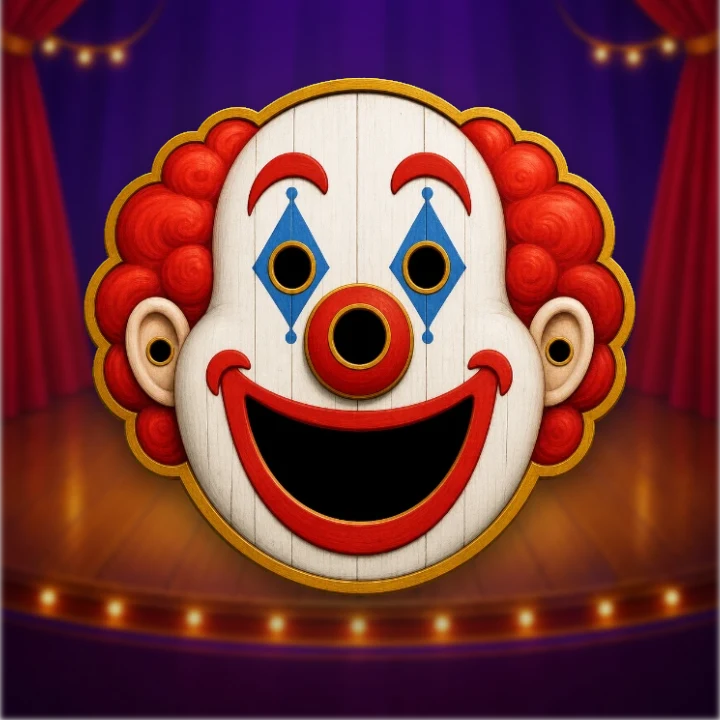
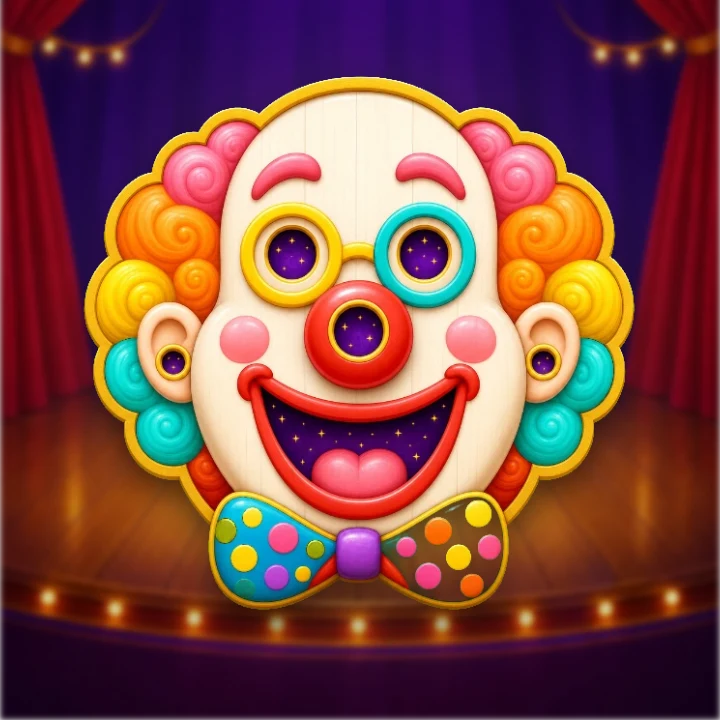
Fortune Clown: palhaço alegre e colorido

diff --git a/Fortune Clown.dc.html b/Fortune Clown.dc.html
@@ -41,8 +41,8 @@ a { color: #ffd257; text-decoration: none; } a:hover { color: #fff1b8; }
     <sc-for list="{{ tags }}" as="t" hint-placeholder-count="6">
       <div style="position: absolute; left: {{ t.x }}; top: {{ t.y }}; transform: translateX(-50%); padding: 1px 7px; border-radius: 10px; background: rgba(28,6,48,.85); font-size: 14px; font-weight: 800; color: #ffd257; pointer-events: none;">{{ t.m }}</div>
     </sc-for>
-    <div data-lid="0" style="position: absolute; left: 164px; top: 294px; width: 31px; height: 31px; border-radius: 50%; background: linear-gradient(180deg, #f6efe2, #d9cdb6); box-shadow: 0 0 0 2px #c8871a; transform: scaleY(0); transform-origin: 50% 0;"></div>
-    <div data-lid="1" style="position: absolute; left: 256px; top: 294px; width: 31px; height: 31px; border-radius: 50%; background: linear-gradient(180deg, #f6efe2, #d9cdb6); box-shadow: 0 0 0 2px #c8871a; transform: scaleY(0); transform-origin: 50% 0;"></div>
+    <div data-lid="0" style="position: absolute; left: 161px; top: 281px; width: 37px; height: 37px; border-radius: 50%; background: linear-gradient(180deg, #fbe8d2, #f0cfae); box-shadow: inset 0 -3px 0 #e8a0a0; transform: scaleY(0); transform-origin: 50% 0;"></div>
+    <div data-lid="1" style="position: absolute; left: 253px; top: 281px; width: 37px; height: 37px; border-radius: 50%; background: linear-gradient(180deg, #fbe8d2, #f0cfae); box-shadow: inset 0 -3px 0 #e8a0a0; transform: scaleY(0); transform-origin: 50% 0;"></div>
     </div>
     <sc-if value="{{ floatOn }}" hint-placeholder-val="{{ false }}">
       <div style="position: absolute; z-index: 9; left: {{ floatX }}; top: {{ floatY }}; transform: translateX(-50%); font-size: 30px; font-weight: 800; color: #fff3c4; text-shadow: 0 2px 0 #6b2e05; animation: ckFloat .9s ease-out forwards; pointer-events: none;">{{ floatText }}</div>
@@ -99,10 +99,10 @@ a { color: #ffd257; text-decoration: none; } a:hover { color: #fff1b8; }
 // Fortune Clown — a "boca do palhaço" com swipe. 5 bolas por aposta; cada bola vale aposta/5 × buraco.
 // Habilidade: a bola vai exatamente onde o dedo parou (e faz o arco do dedo). Errou o buraco = não pontua.
 // Sorte: bola dentro do buraco entra com chance 0,95/x (senão bate na borda e sai) → retorno ≤ 95% mesmo para quem acerta sempre.
-const HOLES = [ // centro e raio (px da tela)
-  { n: 'boca', x: 226.5, y: 443, rx: 70, ry: 30, m: 1.5 }, { n: 'nariz', x: 226.5, y: 357, rx: 17, ry: 17, m: 3 },
-  { n: 'olho', x: 179.6, y: 309.6, rx: 14, ry: 14, m: 6 }, { n: 'olho', x: 271.8, y: 309.6, rx: 14, ry: 14, m: 6 },
-  { n: 'orelha', x: 88.2, y: 367.8, rx: 8.5, ry: 8.5, m: 15 }, { n: 'orelha', x: 364.4, y: 367.8, rx: 8.5, ry: 8.5, m: 15 }];
+const HOLES = [ // centro e raio (px da tela), medidos no rosto novo
+  { n: 'boca', x: 226.5, y: 420, rx: 62, ry: 22, m: 1.5 }, { n: 'nariz', x: 225.7, y: 354, rx: 17, ry: 17, m: 3 },
+  { n: 'olho', x: 179.6, y: 299.4, rx: 16, ry: 16, m: 6 }, { n: 'olho', x: 271.8, y: 299.4, rx: 16, ry: 16, m: 6 },
+  { n: 'orelha', x: 97.6, y: 375.2, rx: 9, ry: 9, m: 15 }, { n: 'orelha', x: 353.1, y: 375.2, rx: 9, ry: 9, m: 15 }];
 const BALLS = 5, BETS = [1, 2.5, 5, 10, 25, 50, 100, 250, 500, 1000], SKEY = 'fortuneCircus.slot.v3', B0 = { x: 226, y: 670 };
 const fmt = n => (Math.round(n * 100) / 100).toLocaleString('pt-BR', { maximumFractionDigits: 2 });
 class Component extends DCLogic {

diff --git a/guidelines/asset-pipeline.md b/guidelines/asset-pipeline.md
@@ -97,3 +97,4 @@ Formato: "Isso tende a falhar porque X. Para acertar preciso de Y. Custo estimad
 - 2026-10-18 · Capas da Home (Wheel, Neck, Penalty, Bounce, Fingo) · Meshy image-to-image gpt-image-2, ref = capa do Fortune Circus (estilo) + print do jogo (conteúdo), 16:9 com assunto no terço central (funciona quadrado e banner) · 5 tarefas ~30 cr · todas OK de 1ª.
 - 2026-10-18 · Wheel: capa refeita só com 3 cores (verde/vermelho/creme) + fundo do jogo (mesmo palco da capa, sem a roda, 9:16) · Meshy image-to-image ref = capa · 2 tarefas ~12 cr · OK de 1ª.
 - 2026-10-19 · Fortune Clown: rosto-alvo do palhaço (6 buracos) · Meshy image-to-image gpt-image-2 ref stage-bleed · ~6 cr · OK de 1ª.
+- 2026-10-19 · Fortune Clown v2: palhaço alegre colorido (óculos-alvo, buracos violeta com brilhos, sem olho vazado) · Meshy image-to-image ref clown-raw · ~6 cr · OK de 1ª. Lição: buraco preto em olho = assustador; usar interior colorido.
